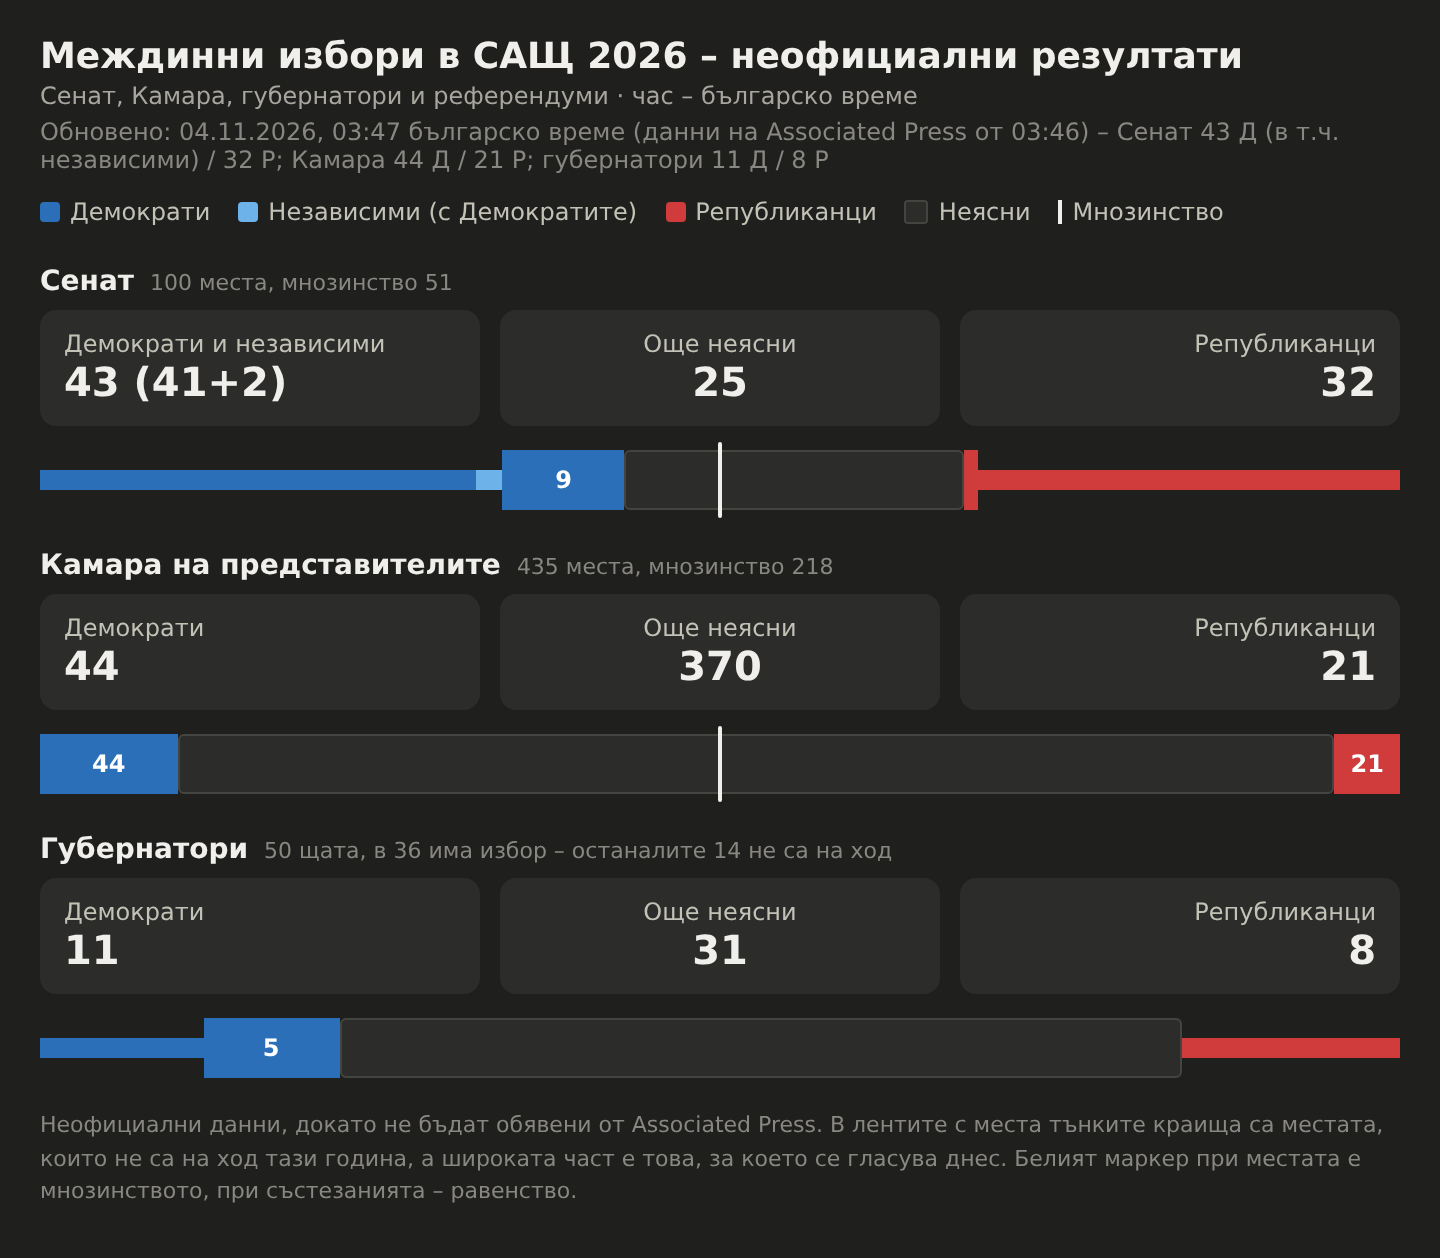
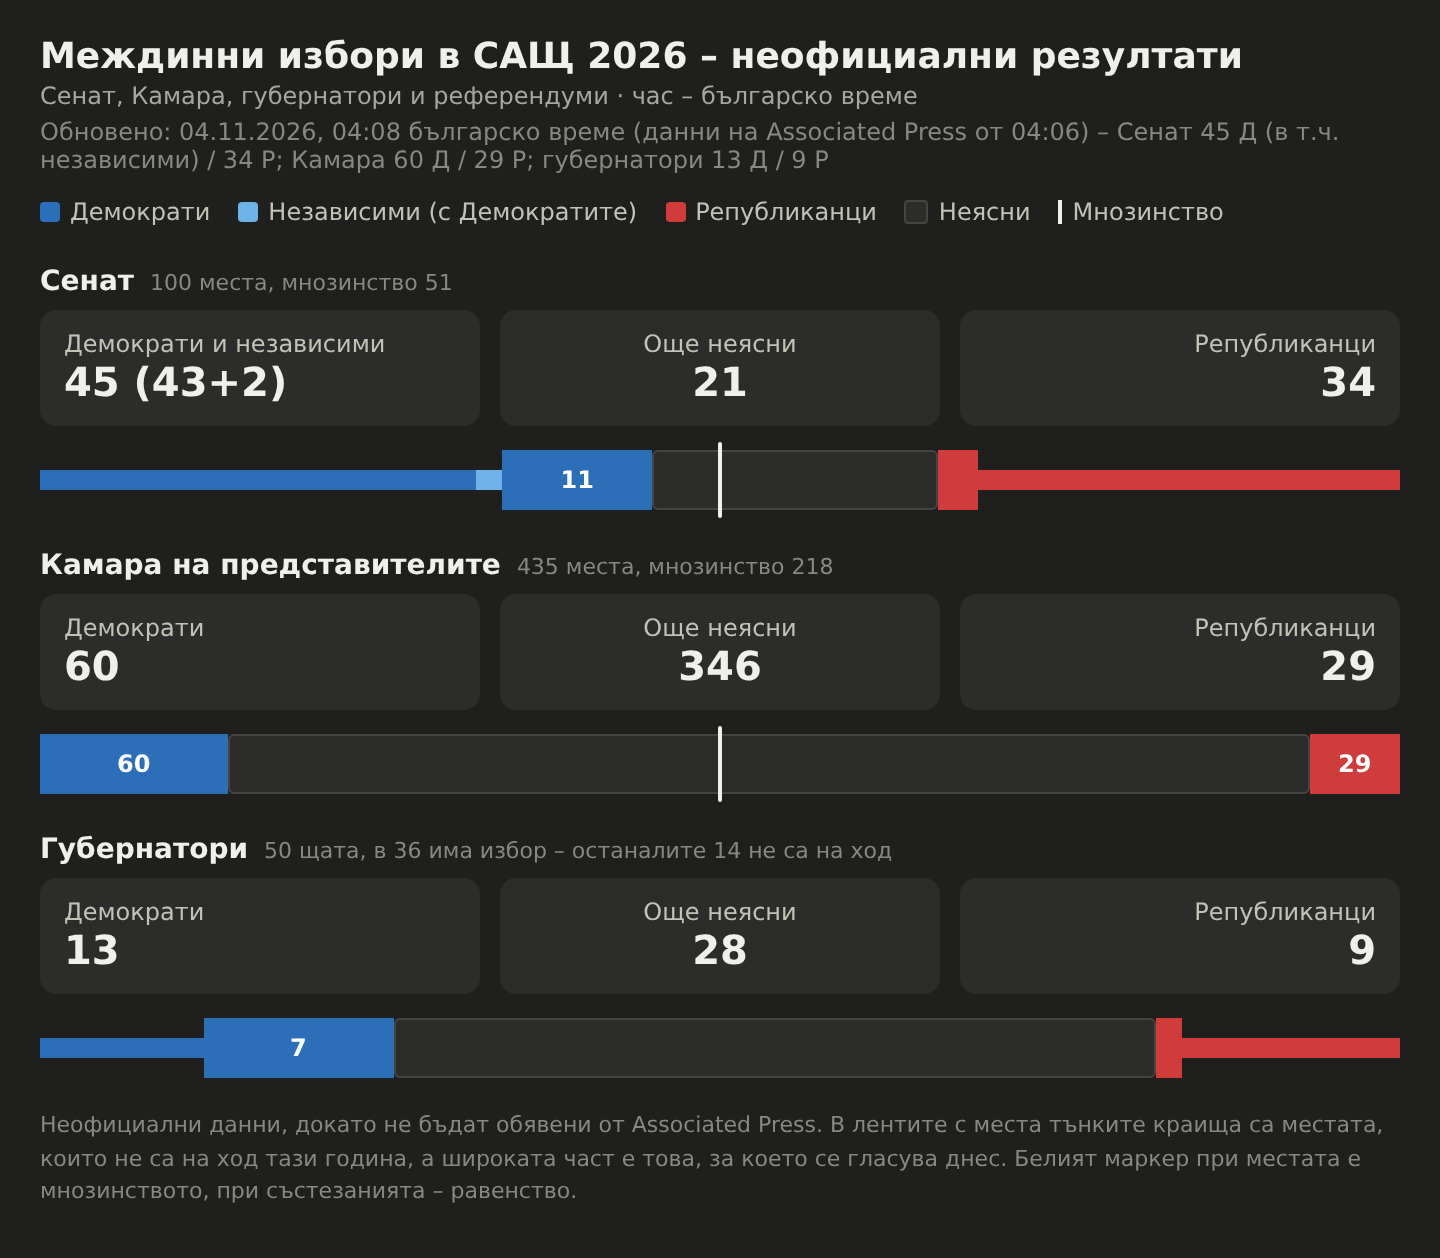
Обновяване 04:08 българско време
Claude-Session: https://claude.ai/code/session_013Bd4dyDeBGD9vdxVJ9tN9V

diff --git a/us-midterms-2026.11.03.html b/us-midterms-2026.11.03.html
@@ -51,13 +51,13 @@ h1{font-size:18px;font-weight:600;margin:0 0 2px}
 .empty{font-size:13px;color:var(--text-muted);padding:10px 0}
 .foot{font-size:11px;color:var(--text-muted);margin-top:16px;line-height:1.5}
 </style></head><body><div class="wrap">
-<h1>Междинни избори в САЩ 2026 – неофициални резултати</h1><div class="sub">Сенат, Камара, губернатори и референдуми · час – българско време</div><div class="upd">Обновено: 04.11.2026, 03:47 българско време (данни на Associated Press от 03:46) – Сенат 43 Д (в т.ч. независими) / 32 Р; Камара 44 Д / 21 Р; губернатори 11 Д / 8 Р</div>
+<h1>Междинни избори в САЩ 2026 – неофициални резултати</h1><div class="sub">Сенат, Камара, губернатори и референдуми · час – българско време</div><div class="upd">Обновено: 04.11.2026, 04:08 българско време (данни на Associated Press от 04:06) – Сенат 45 Д (в т.ч. независими) / 34 Р; Камара 60 Д / 29 Р; губернатори 13 Д / 9 Р</div>
 <div class="tabs" id="tabs"></div>
 <div id="view"></div>
 <div class="foot">Неофициални данни, докато не бъдат обявени от Associated Press. В лентите с места тънките краища са местата, които не са на ход тази година, а широката част е това, за което се гласува днес. Белият маркер при местата е мнозинството, при състезанията – равенство. Щракни на ред, за да видиш как се е променял или кои са окръзите на щата.</div>
 </div>
 <script>
-var DATA={"title": "Междинни избори в САЩ 2026 – неофициални резултати", "sub": "Сенат, Камара, губернатори и референдуми · час – българско време", "updated": "04.11.2026, 03:47 българско време (данни на Associated Press от 03:46) – Сенат 43 Д (в т.ч. независими) / 32 Р; Камара 44 Д / 21 Р; губернатори 11 Д / 8 Р", "times": ["01:30", "02:00", "02:15", "02:30", "03:30", "03:45"], "chambers": {"sen": {"tot": 100, "mj": 51, "d": [32, 32, 33, 33, 41, 41], "i": [2, 2, 2, 2, 2, 2], "r": [31, 31, 31, 31, 31, 32], "base": {"d": 32, "i": 2, "r": 31}}, "hou": {"tot": 435, "mj": 218, "d": [0, 0, 3, 6, 36, 44], "i": [0, 0, 0, 0, 0, 0], "r": [0, 0, 1, 2, 16, 21], "base": {"d": 0, "i": 0, "r": 0}}, "gov": {"tot": 50, "d": [6, 6, 6, 6, 11, 11], "i": [], "r": [8, 8, 8, 8, 8, 8], "base": {"d": 6, "i": 0, "r": 8}}}, "senate": [["Кентъки", 51.5, 47.1, 9, "Води: Демократи", 0, [["02:07", 51.5, 47.1]]], ["Върджиния", null, null, null, "<b>Обявен:</b> Демократи", 1], ["Северна Каролина", null, null, null, "<b>Обявен:</b> Демократи (Купър; място, което сега е на Републиканците)", 1, []], ["Ню Хемпшър", null, null, null, "<b>Обявен:</b> Демократи (Папас)", 1, []], ["Флорида", null, null, null, "<b>Обявена:</b> Републиканци (Муди, специален избор)", 1, []], ["Грузия", null, null, 63, "Води: Демократи (Ософ)", 0, []], ["Южна Каролина", null, null, 53, "Води: Демократи (+6,4 пункта)", 0, []], ["Охайо", null, null, 37, "Води: Демократи (Браун, +15,3 пункта)", 0, []], ["Тексас", null, null, 29, "Води: Демократи (Таларико, +18,7 пункта)", 0, []], ["Канзас", null, null, 18, "Води: Демократи (+25,4 пункта)", 0, []], ["Мичиган", null, null, 10, "Води: Демократи (+14,5 пункта)", 0, []]], "gov": [["Роуд Айлънд", null, null, null, "<b>Обявена:</b> Демократи (Фулкс)", 1, []]], "housecontested": [], "housestates": [], "measures": [], "foot": "Неофициални данни, докато не бъдат обявени от Associated Press. В лентите с места тънките краища са местата, които не са на ход тази година, а широката част е това, за което се гласува днес. Белият маркер при местата е мнозинството, при състезанията – равенство. Щракни на ред, за да видиш как се е променял или кои са окръзите на щата."};
+var DATA={"title": "Междинни избори в САЩ 2026 – неофициални резултати", "sub": "Сенат, Камара, губернатори и референдуми · час – българско време", "updated": "04.11.2026, 04:08 българско време (данни на Associated Press от 04:06) – Сенат 45 Д (в т.ч. независими) / 34 Р; Камара 60 Д / 29 Р; губернатори 13 Д / 9 Р", "times": ["01:30", "02:00", "02:15", "02:30", "03:30", "03:45", "04:05"], "chambers": {"sen": {"tot": 100, "mj": 51, "d": [32, 32, 33, 33, 41, 41, 43], "i": [2, 2, 2, 2, 2, 2, 2], "r": [31, 31, 31, 31, 31, 32, 34], "base": {"d": 32, "i": 2, "r": 31}}, "hou": {"tot": 435, "mj": 218, "d": [0, 0, 3, 6, 36, 44, 60], "i": [0, 0, 0, 0, 0, 0, 0], "r": [0, 0, 1, 2, 16, 21, 29], "base": {"d": 0, "i": 0, "r": 0}}, "gov": {"tot": 50, "d": [6, 6, 6, 6, 11, 11, 13], "i": [], "r": [8, 8, 8, 8, 8, 8, 9], "base": {"d": 6, "i": 0, "r": 8}}}, "senate": [["Върджиния", null, null, null, "<b>Обявен:</b> Демократи", 1], ["Северна Каролина", null, null, null, "<b>Обявен:</b> Демократи (Купър; място, което сега е на Републиканците)", 1, []], ["Ню Хемпшър", null, null, null, "<b>Обявен:</b> Демократи (Папас)", 1, []], ["Флорида", null, null, null, "<b>Обявена:</b> Републиканци (Муди, специален избор)", 1, []], ["Колорадо", null, null, null, "<b>Обявен:</b> Демократи (Хикенлупър)", 1, []], ["Ню Мексико", null, null, null, "<b>Обявен:</b> Демократи (Лухан)", 1, []], ["Уайоминг", null, null, null, "<b>Обявена:</b> Републиканци (Хагеман)", 1, []], ["Грузия", null, null, 71, "Води: Демократи (Ософ)", 0, []], ["Южна Каролина", null, null, 71, "Води: Демократи (+8,2 пункта)", 0, []], ["Охайо", null, null, 47, "Води: Демократи (Браун, +8,7 пункта)", 0, []], ["Тексас", null, null, 40, "Води: Демократи (Таларико, +19,9 пункта)", 0, []], ["Канзас", null, null, 38, "Води: Демократи (+26,5 пункта)", 0, []], ["Мичиган", null, null, 14, "Води: Демократи (+11,5 пункта)", 0, []], ["Мейн", null, null, 4, "Води: Демократи (Джаксън, +11 пункта) – броят е съвсем в началото", 0, []], ["Айова", null, null, 5, "Води: Демократи (Турек, +46,1 пункта) – броят е съвсем в началото", 0, []]], "gov": [["Роуд Айлънд", null, null, null, "<b>Обявена:</b> Демократи (Фулкс)", 1, []], ["Колорадо", null, null, null, "<b>Обявен:</b> Демократи (Уайзър)", 1, []], ["Ню Йорк", null, null, null, "<b>Обявена:</b> Демократи (Хокъл)", 1, []], ["Уайоминг", null, null, null, "<b>Обявен:</b> Републиканци (Барлоу)", 1, []]], "housecontested": [], "housestates": [], "measures": [], "foot": "Неофициални данни, докато не бъдат обявени от Associated Press. В лентите с места тънките краища са местата, които не са на ход тази година, а широката част е това, за което се гласува днес. Белият маркер при местата е мнозинството, при състезанията – равенство. Щракни на ред, за да видиш как се е променял или кои са окръзите на щата."};
 var D='#2a6fb8',I='#6db3ea',R='#d03b3b',Y='#1baf7a',N='#eb6834';
 var f=function(v){return String(Math.round(v*10)/10).replace('.',',')+'%'};
 var leg=function(a,lm){return '<div class="leg">'+a.map(function(x){return '<span><i class="sw" style="background:'+x[0]+(x[2]?';border:1px solid var(--border)':'')+'"></i>'+x[1]+'</span>'}).join('')+'<span><i class="mk"></i>'+lm+'</span></div>'};
